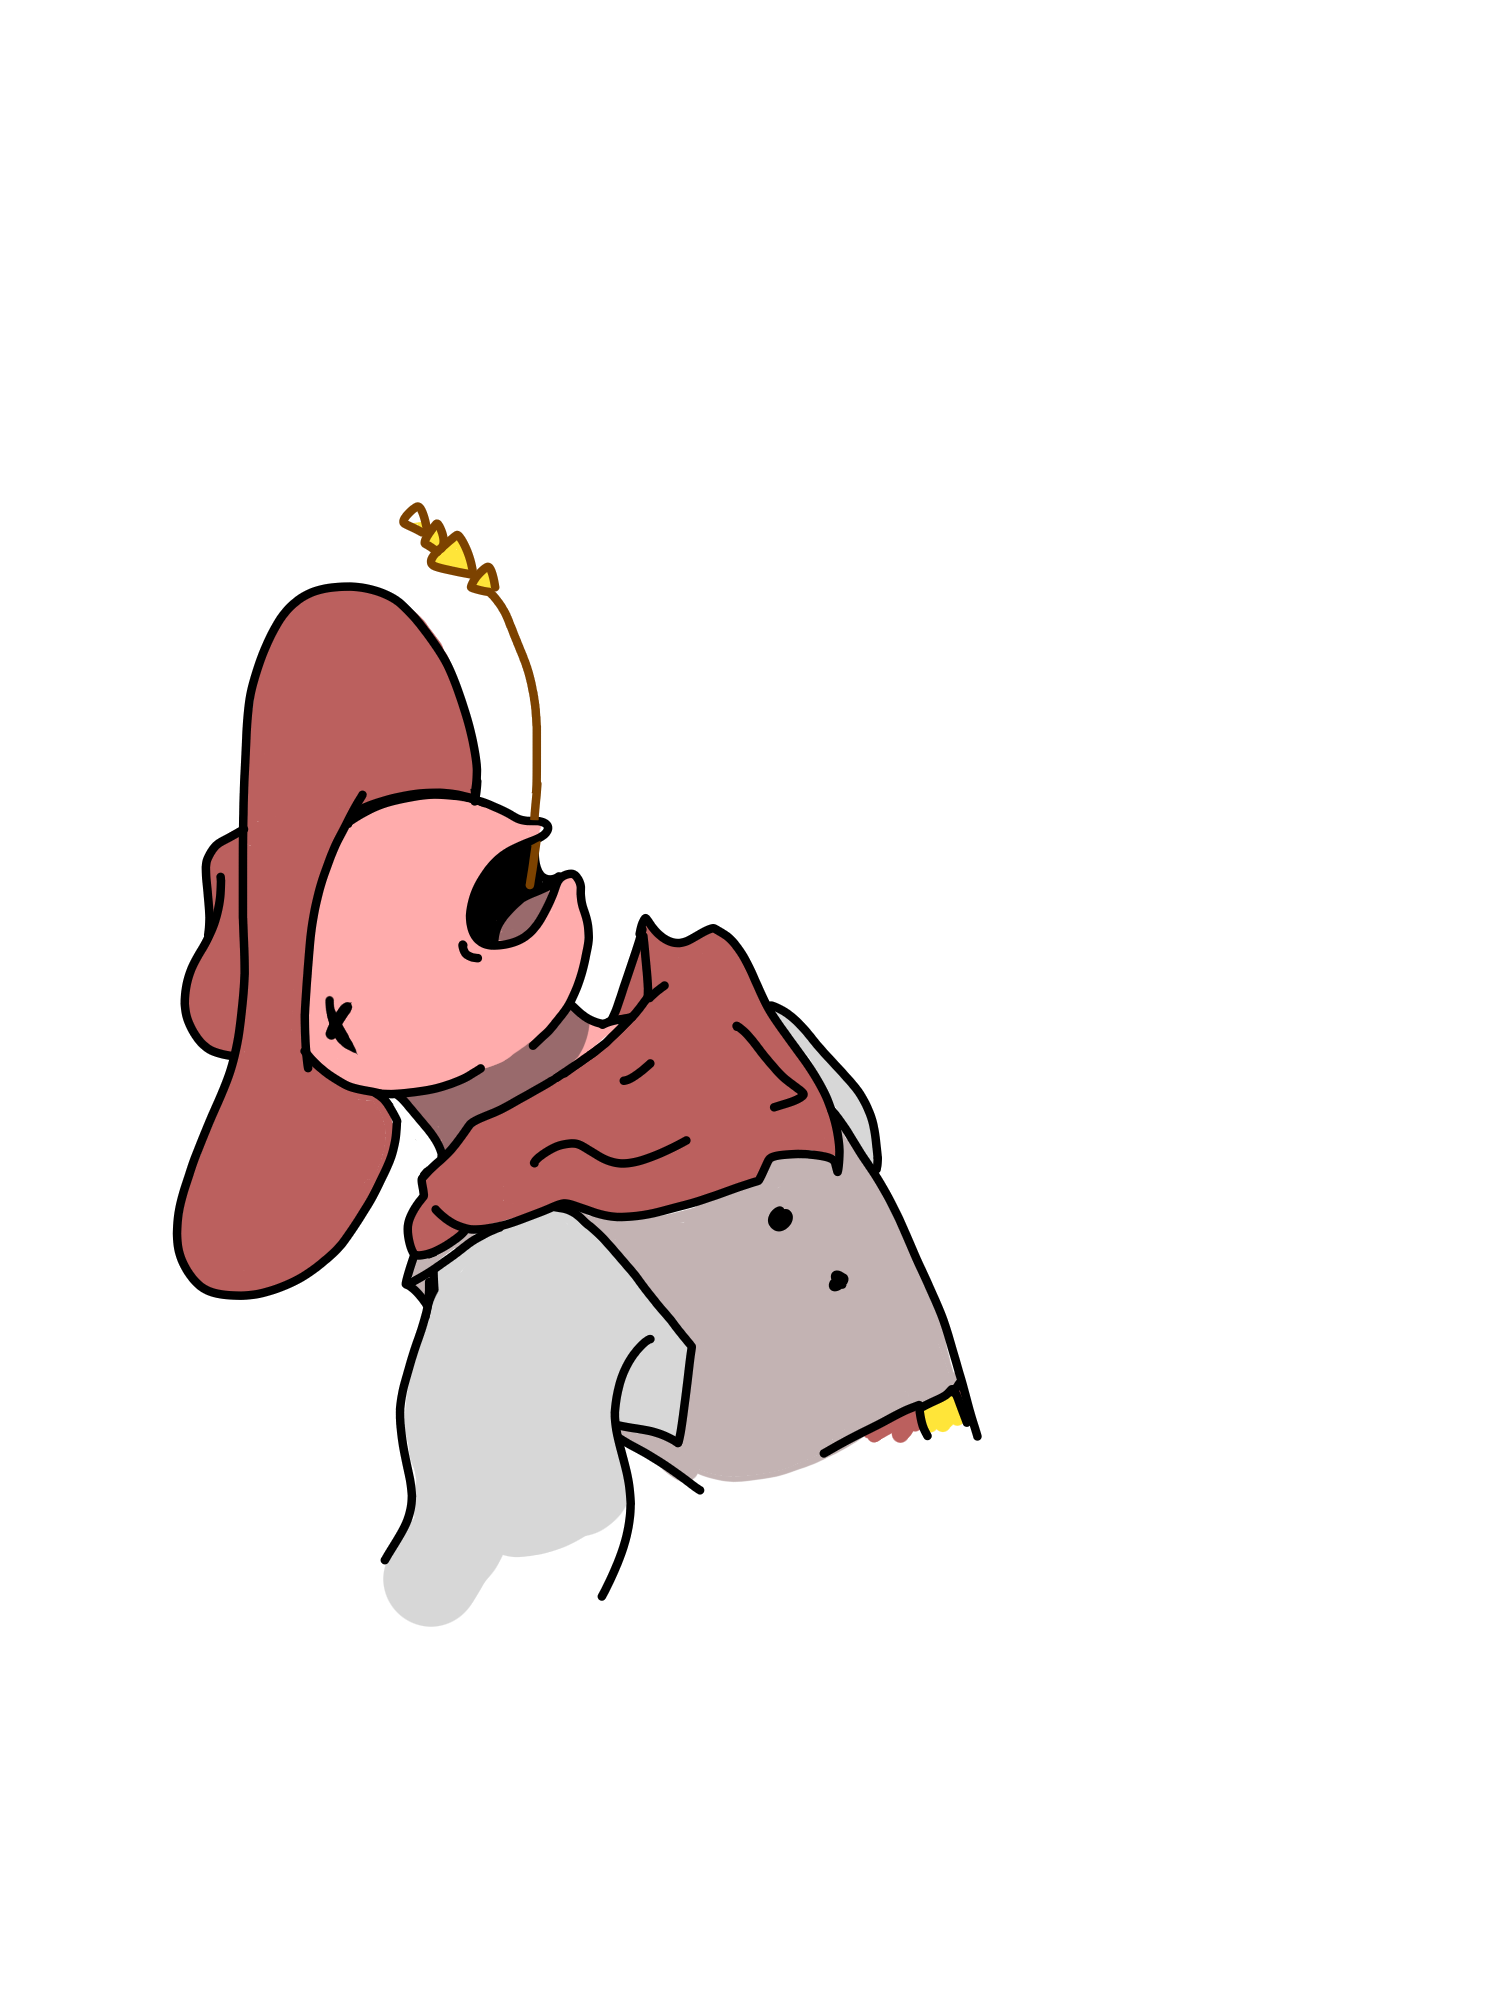
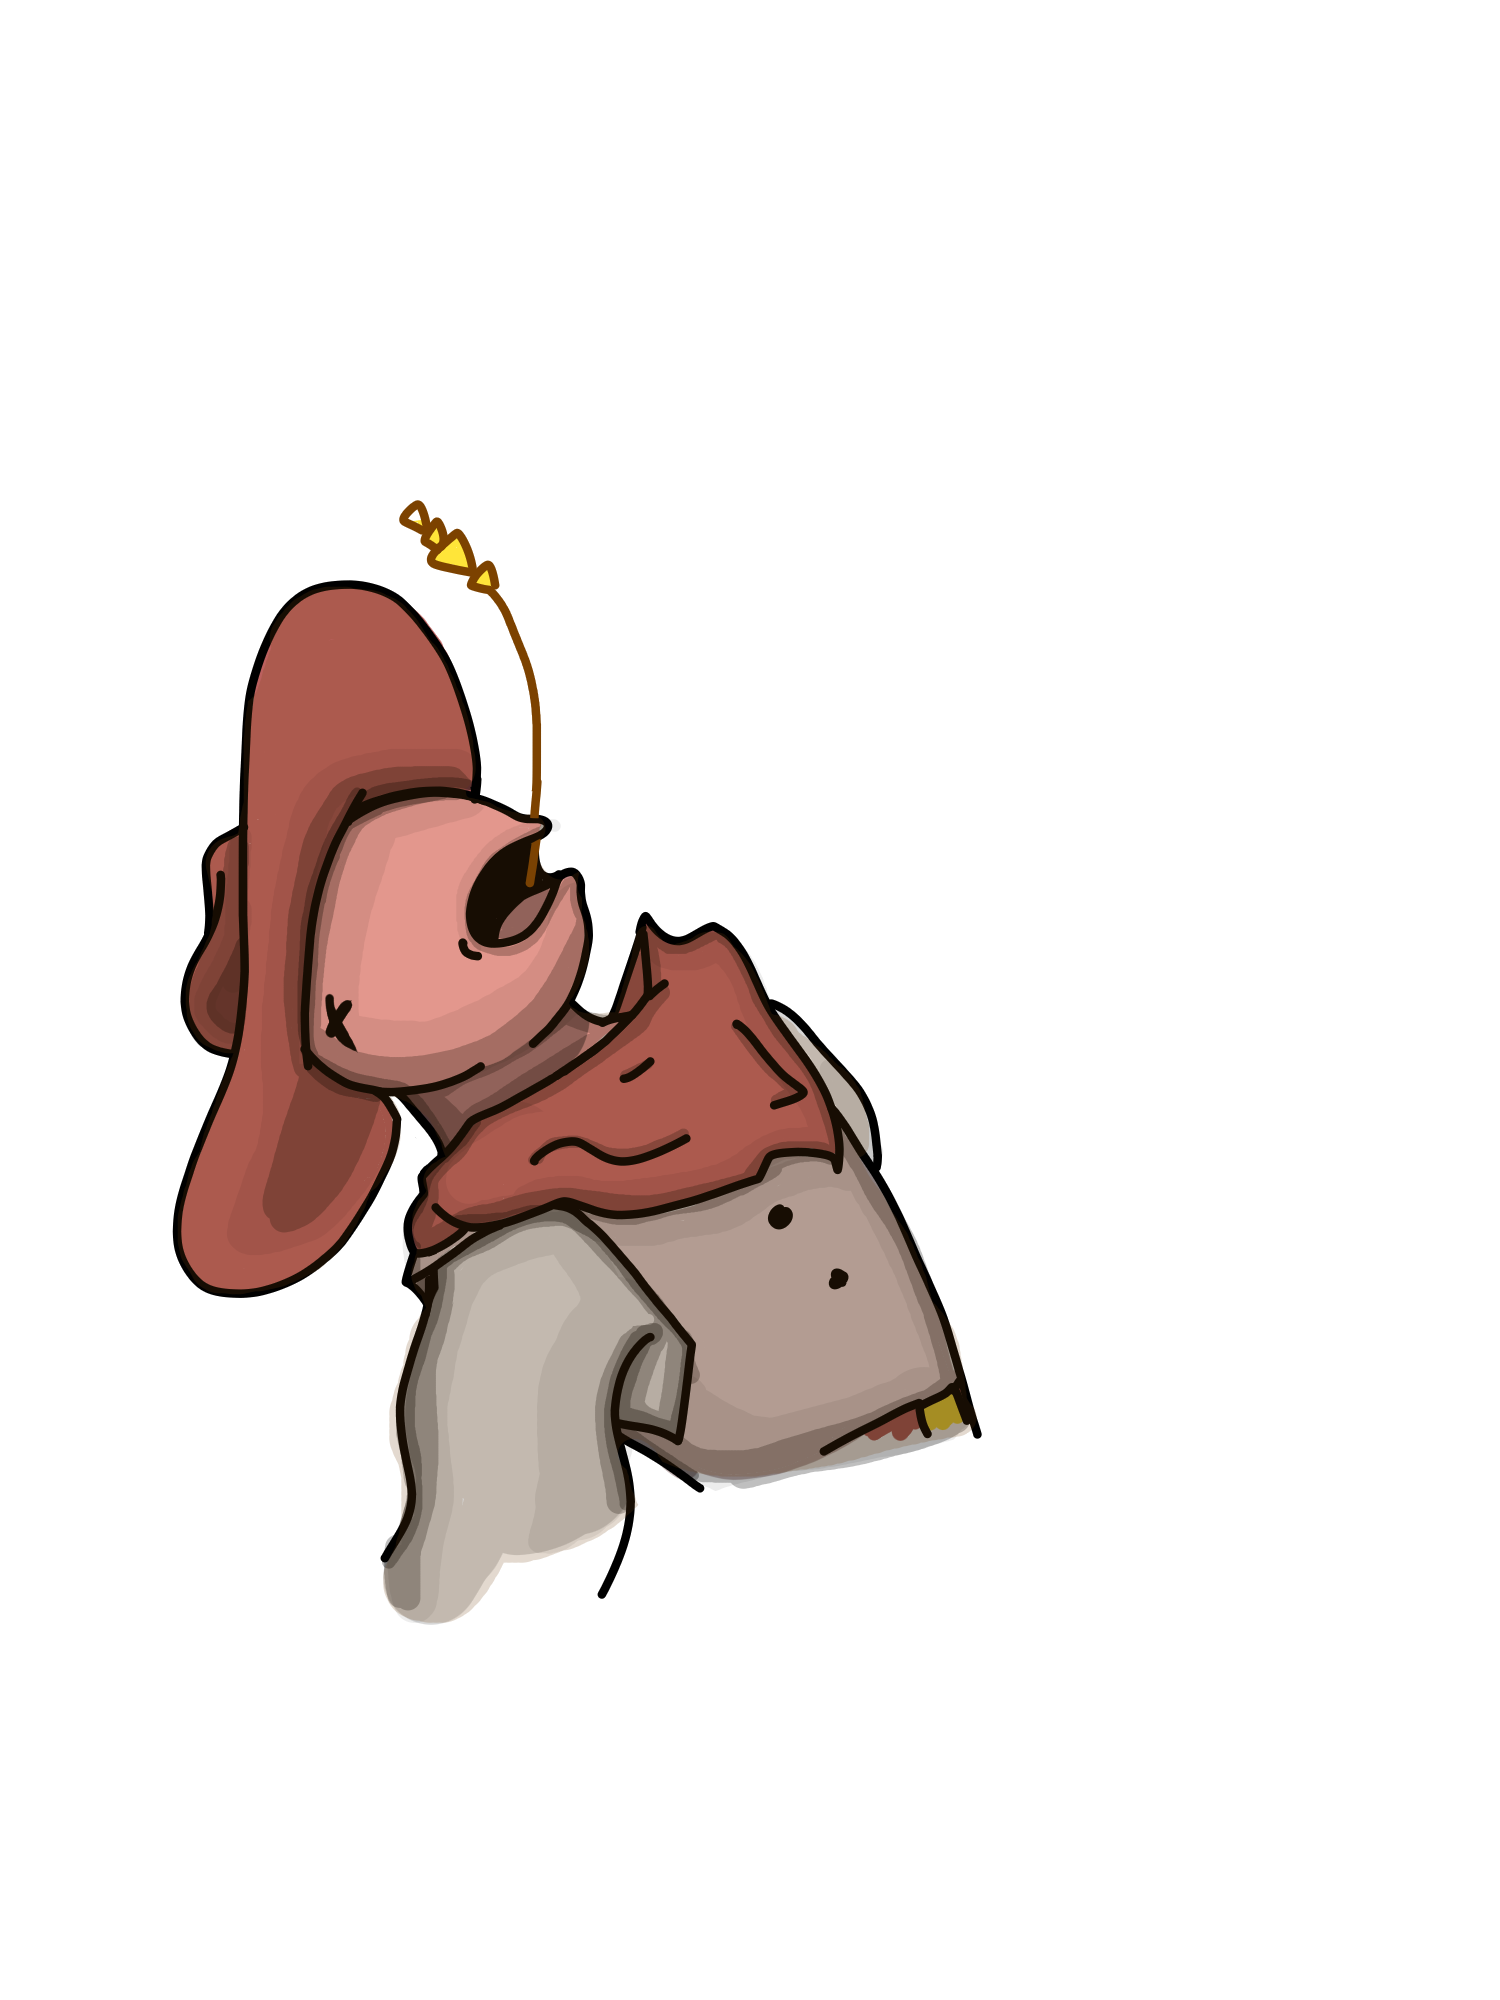
new cowboy designs

diff --git a/src/components/Ambiance.jsx b/src/components/Ambiance.jsx
@@ -23,7 +23,9 @@ const Ambiance = () =>{
           amb.pause();
           scr.pause();
           amb.currentTime = 0;
+          amb.volume = 0.6;
           scr.currentTime = 0;
+          scr.volume = 0.5;
         };
       }, []);
 
@@ -38,7 +40,7 @@ const Ambiance = () =>{
                     case "shoot-death":
                         screamRef.current.play();
                         setTimeout(() => ambianceRef.current.pause(), 500);
-                        setTimeout(() => screamRef.current.volume = 0.3, 1500);
+                        setTimeout(() => screamRef.current.volume = 0.1, 1500);
                         setFirstShot(true)
                         break;
                     default:

diff --git a/src/components/GameCanvas.jsx b/src/components/GameCanvas.jsx
@@ -135,7 +135,7 @@ const GameCanvas = ({chooseTarget, choosing, target, cardOptions, sendChoice, ga
       document.body.style.cursor = 'auto';
     }}>Ready</ReadyText>}
     <Room rotation={[0, 3, 0]} position={[2.8, 0, 2]}/>
-    <pointLight position={[0,5.5,0]} intensity={35} color={0xfebbbb}/>
+    <pointLight position={[0,5.5,0]} intensity={30} color={0xf79707}/>
     <pointLight position={[-1.4, 4.266, -5.225]} intensity={0.8} color={0xffffff}/>
     <pointLight position={[8,4.5,-3]} intensity={3} color={0xfebbbb}/>
     {/* <pointLight position={[6,6,9]} intensity={8} color={0xfebbbb}/> */}

diff --git a/src/components/models/Player.jsx b/src/components/models/Player.jsx
@@ -46,7 +46,7 @@ export default function Player({pId, position, onClick, name, targetState, right
   const disconnected = useRef(false);
 
   const textureLocation = '/images/cowboy/';
-  const defaultTexture = useLoader(THREE.TextureLoader, textureLocation + 'cowboy_cards2.png');
+  const defaultTexture = useLoader(THREE.TextureLoader, textureLocation + 'cowboy_cards.png');
 
   const variants = [
     {main: defaultTexture, top: useLoader(THREE.TextureLoader, textureLocation + 'cowboy_cards_hand.png')},
